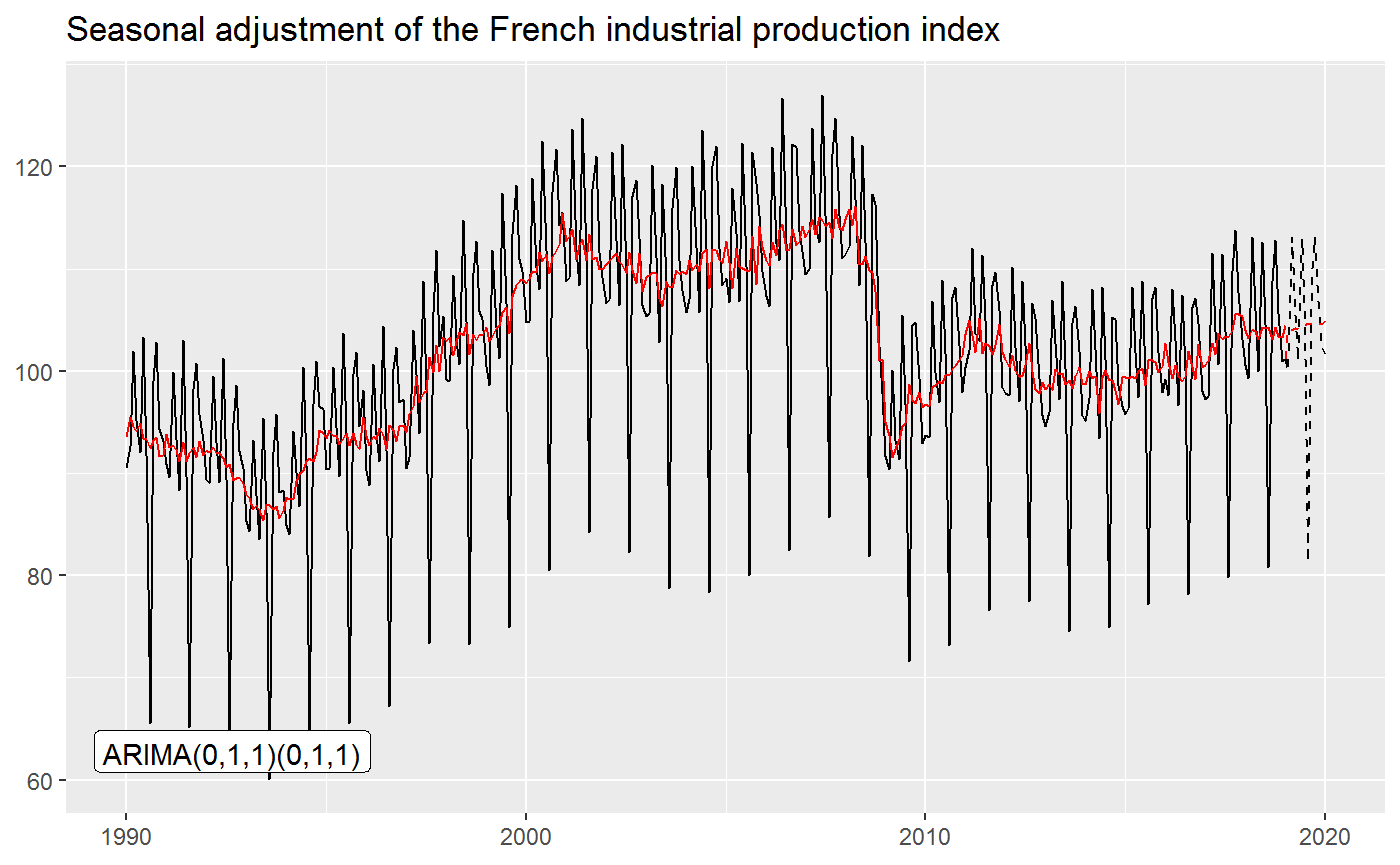
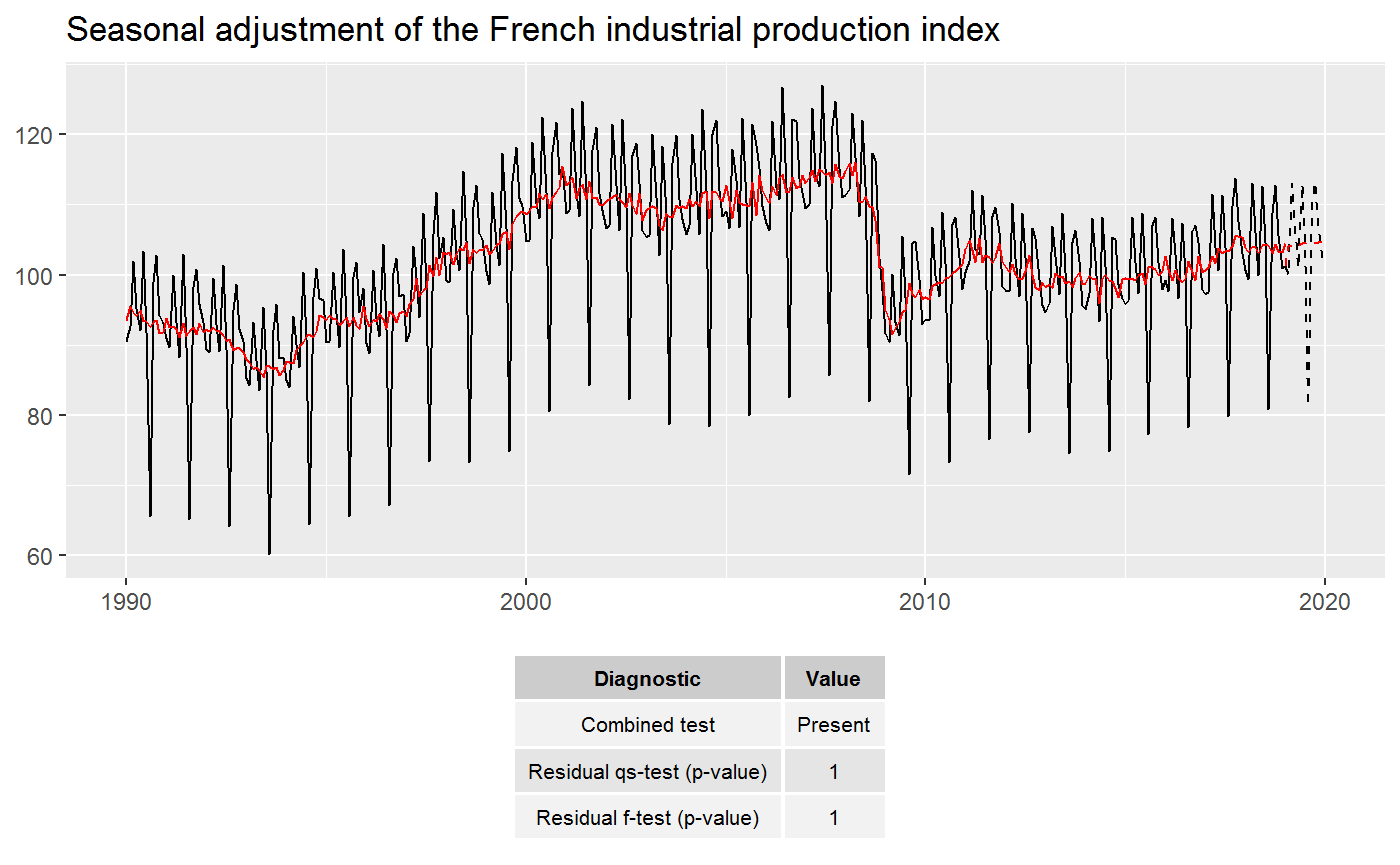
README

diff --git a/docs/index.html b/docs/index.html
@@ -40,7 +40,7 @@
       </button>
       <span class="navbar-brand">
         <a class="navbar-link" href="index.html">ggdemetra</a>
-        <span class="version label label-default" data-toggle="tooltip" data-placement="bottom" title="Released version">0.2.0</span>
+        <span class="version label label-default" data-toggle="tooltip" data-placement="bottom" title="Released version">0.2.1</span>
       </span>
     </div>
 
@@ -139,53 +139,53 @@
 <div id="usage" class="section level2">
 <h2 class="hasAnchor">
 <a href="#usage" class="anchor"></a>Usage</h2>
-<p>By default, the seasonal adjustment is made with X-13-ARIMA with the pre-defined specification “RSA5c” (automatic log detection, automatic ARIMA and outliers detection and trading day and easter adjustment). If no new data or seasonal adjustment specification is specified (method or specification), these parameters is inherited from the previous defined: therefore you only need to specify the specification once. In the following examples, the seasonal adjustment will be perform with X-13-ARIMA with working day adjustment and no gradual easter effect adjustment:</p>
-<div class="sourceCode" id="cb2"><pre class="sourceCode r"><code class="sourceCode r"><a class="sourceLine" id="cb2-1" title="1">spec &lt;-<span class="st"> </span>RJDemetra<span class="op">::</span><span class="kw"><a href="https://www.rdocumentation.org/packages/RJDemetra/topics/x13_spec">x13_spec</a></span>(<span class="st">"RSA3"</span>, <span class="dt">tradingdays.option =</span> <span class="st">"WorkingDays"</span>)</a></code></pre></div>
+<p>By default, the seasonal adjustment is made with X-13-ARIMA with the pre-defined specification “RSA5c” (automatic log detection, automatic ARIMA and outliers detection and trading day and easter adjustment). If no new data or seasonal adjustment specification is specified (method or specification), these parameters is inherited from the previous defined: therefore you only need to specify the specification once. In the following examples, the seasonal adjustment will be perform with X-13-ARIMA with working day adjustment and no gradual easter effect adjustment.</p>
 <p>To add the seasonal adjusted series and the forecasts of the input data and of the seasonal adjusted series:</p>
-<div class="sourceCode" id="cb3"><pre class="sourceCode r"><code class="sourceCode r"><a class="sourceLine" id="cb3-1" title="1"><span class="kw"><a href="https://www.rdocumentation.org/packages/base/topics/library">library</a></span>(ggplot2)</a>
-<a class="sourceLine" id="cb3-2" title="2"><span class="kw"><a href="https://www.rdocumentation.org/packages/base/topics/library">library</a></span>(ggdemetra)</a>
-<a class="sourceLine" id="cb3-3" title="3"></a>
-<a class="sourceLine" id="cb3-4" title="4">p_ipi_fr &lt;-<span class="st"> </span><span class="kw">ggplot</span>(<span class="dt">data =</span> ipi_c_eu_df, <span class="dt">mapping =</span> <span class="kw">aes</span>(<span class="dt">x =</span> date, <span class="dt">y =</span> FR)) <span class="op">+</span></a>
-<a class="sourceLine" id="cb3-5" title="5"><span class="st">    </span><span class="kw">geom_line</span>() <span class="op">+</span></a>
-<a class="sourceLine" id="cb3-6" title="6"><span class="st">    </span><span class="kw">labs</span>(<span class="dt">title =</span> <span class="st">"Seasonal adjustment of the French industrial production index"</span>,</a>
-<a class="sourceLine" id="cb3-7" title="7">         <span class="dt">x =</span> <span class="ot">NULL</span>, <span class="dt">y =</span> <span class="ot">NULL</span>)</a>
-<a class="sourceLine" id="cb3-8" title="8">p_sa &lt;-<span class="st"> </span>p_ipi_fr <span class="op">+</span></a>
-<a class="sourceLine" id="cb3-9" title="9"><span class="st">    </span><span class="kw"><a href="reference/geom_sa.html">geom_sa</a></span>(<span class="dt">component =</span> <span class="st">"y_f"</span>, <span class="dt">linetype =</span> <span class="dv">2</span>,</a>
-<a class="sourceLine" id="cb3-10" title="10">            <span class="dt">spec =</span> spec) <span class="op">+</span><span class="st"> </span></a>
-<a class="sourceLine" id="cb3-11" title="11"><span class="st">    </span><span class="kw"><a href="reference/geom_sa.html">geom_sa</a></span>(<span class="dt">component =</span> <span class="st">"sa"</span>, <span class="dt">color =</span> <span class="st">"red"</span>) <span class="op">+</span></a>
-<a class="sourceLine" id="cb3-12" title="12"><span class="st">    </span><span class="kw"><a href="reference/geom_sa.html">geom_sa</a></span>(<span class="dt">component =</span> <span class="st">"sa_f"</span>, <span class="dt">color =</span> <span class="st">"red"</span>, <span class="dt">linetype =</span> <span class="dv">2</span>)</a>
-<a class="sourceLine" id="cb3-13" title="13">p_sa</a></code></pre></div>
-<p><img src="reference/figures/README-unnamed-chunk-4-1.png" width="700" style="display: block; margin: auto;"></p>
+<div class="sourceCode" id="cb2"><pre class="sourceCode r"><code class="sourceCode r"><a class="sourceLine" id="cb2-1" title="1"><span class="kw"><a href="https://www.rdocumentation.org/packages/base/topics/library">library</a></span>(ggplot2)</a>
+<a class="sourceLine" id="cb2-2" title="2"><span class="kw"><a href="https://www.rdocumentation.org/packages/base/topics/library">library</a></span>(ggdemetra)</a>
+<a class="sourceLine" id="cb2-3" title="3">spec &lt;-<span class="st"> </span>RJDemetra<span class="op">::</span><span class="kw"><a href="https://www.rdocumentation.org/packages/RJDemetra/topics/x13_spec">x13_spec</a></span>(<span class="st">"RSA3"</span>, <span class="dt">tradingdays.option =</span> <span class="st">"WorkingDays"</span>)</a>
+<a class="sourceLine" id="cb2-4" title="4"></a>
+<a class="sourceLine" id="cb2-5" title="5">p_ipi_fr &lt;-<span class="st"> </span><span class="kw">ggplot</span>(<span class="dt">data =</span> ipi_c_eu_df, <span class="dt">mapping =</span> <span class="kw">aes</span>(<span class="dt">x =</span> date, <span class="dt">y =</span> FR)) <span class="op">+</span></a>
+<a class="sourceLine" id="cb2-6" title="6"><span class="st">    </span><span class="kw">geom_line</span>() <span class="op">+</span></a>
+<a class="sourceLine" id="cb2-7" title="7"><span class="st">    </span><span class="kw">labs</span>(<span class="dt">title =</span> <span class="st">"Seasonal adjustment of the French industrial production index"</span>,</a>
+<a class="sourceLine" id="cb2-8" title="8">         <span class="dt">x =</span> <span class="ot">NULL</span>, <span class="dt">y =</span> <span class="ot">NULL</span>)</a>
+<a class="sourceLine" id="cb2-9" title="9">p_sa &lt;-<span class="st"> </span>p_ipi_fr <span class="op">+</span></a>
+<a class="sourceLine" id="cb2-10" title="10"><span class="st">    </span><span class="kw"><a href="reference/geom_sa.html">geom_sa</a></span>(<span class="dt">component =</span> <span class="st">"y_f"</span>, <span class="dt">linetype =</span> <span class="dv">2</span>,</a>
+<a class="sourceLine" id="cb2-11" title="11">            <span class="dt">spec =</span> spec) <span class="op">+</span><span class="st"> </span></a>
+<a class="sourceLine" id="cb2-12" title="12"><span class="st">    </span><span class="kw"><a href="reference/geom_sa.html">geom_sa</a></span>(<span class="dt">component =</span> <span class="st">"sa"</span>, <span class="dt">color =</span> <span class="st">"red"</span>) <span class="op">+</span></a>
+<a class="sourceLine" id="cb2-13" title="13"><span class="st">    </span><span class="kw"><a href="reference/geom_sa.html">geom_sa</a></span>(<span class="dt">component =</span> <span class="st">"sa_f"</span>, <span class="dt">color =</span> <span class="st">"red"</span>, <span class="dt">linetype =</span> <span class="dv">2</span>)</a>
+<a class="sourceLine" id="cb2-14" title="14">p_sa</a></code></pre></div>
+<p><img src="reference/figures/README-unnamed-chunk-3-1.png" width="700" style="display: block; margin: auto;"></p>
 <p>To add the outliers at the bottom of the plot with an arrow to the data point and the estimated coefficients:</p>
-<div class="sourceCode" id="cb4"><pre class="sourceCode r"><code class="sourceCode r"><a class="sourceLine" id="cb4-1" title="1">p_sa <span class="op">+</span><span class="st"> </span></a>
-<a class="sourceLine" id="cb4-2" title="2"><span class="st">    </span><span class="kw"><a href="reference/geom_outlier.html">geom_outlier</a></span>(<span class="dt">geom =</span> <span class="st">"label_repel"</span>,</a>
-<a class="sourceLine" id="cb4-3" title="3">                 <span class="dt">coefficients =</span> <span class="ot">TRUE</span>,</a>
-<a class="sourceLine" id="cb4-4" title="4">                 <span class="dt">vjust =</span> <span class="dv">4</span>,</a>
-<a class="sourceLine" id="cb4-5" title="5">                 <span class="dt">ylim =</span> <span class="kw"><a href="https://www.rdocumentation.org/packages/base/topics/c">c</a></span>(<span class="ot">NA</span>, <span class="dv">65</span>), <span class="dt">force =</span> <span class="dv">10</span>,</a>
-<a class="sourceLine" id="cb4-6" title="6">                 <span class="dt">arrow =</span> <span class="kw">arrow</span>(<span class="dt">length =</span> <span class="kw">unit</span>(<span class="fl">0.03</span>, <span class="st">"npc"</span>),</a>
-<a class="sourceLine" id="cb4-7" title="7">                               <span class="dt">type =</span> <span class="st">"closed"</span>, <span class="dt">ends =</span> <span class="st">"last"</span>))</a></code></pre></div>
-<p><img src="reference/figures/README-unnamed-chunk-5-1.png" width="700" style="display: block; margin: auto;"></p>
+<div class="sourceCode" id="cb3"><pre class="sourceCode r"><code class="sourceCode r"><a class="sourceLine" id="cb3-1" title="1">p_sa <span class="op">+</span><span class="st"> </span></a>
+<a class="sourceLine" id="cb3-2" title="2"><span class="st">    </span><span class="kw"><a href="reference/geom_outlier.html">geom_outlier</a></span>(<span class="dt">geom =</span> <span class="st">"label_repel"</span>,</a>
+<a class="sourceLine" id="cb3-3" title="3">                 <span class="dt">coefficients =</span> <span class="ot">TRUE</span>,</a>
+<a class="sourceLine" id="cb3-4" title="4">                 <span class="dt">vjust =</span> <span class="dv">4</span>,</a>
+<a class="sourceLine" id="cb3-5" title="5">                 <span class="dt">ylim =</span> <span class="kw"><a href="https://www.rdocumentation.org/packages/base/topics/c">c</a></span>(<span class="ot">NA</span>, <span class="dv">65</span>), <span class="dt">force =</span> <span class="dv">10</span>,</a>
+<a class="sourceLine" id="cb3-6" title="6">                 <span class="dt">arrow =</span> <span class="kw">arrow</span>(<span class="dt">length =</span> <span class="kw">unit</span>(<span class="fl">0.03</span>, <span class="st">"npc"</span>),</a>
+<a class="sourceLine" id="cb3-7" title="7">                               <span class="dt">type =</span> <span class="st">"closed"</span>, <span class="dt">ends =</span> <span class="st">"last"</span>))</a></code></pre></div>
+<p><img src="reference/figures/README-unnamed-chunk-4-1.png" width="700" style="display: block; margin: auto;"></p>
 <p>To add the ARIMA model:</p>
-<div class="sourceCode" id="cb5"><pre class="sourceCode r"><code class="sourceCode r"><a class="sourceLine" id="cb5-1" title="1">p_sa <span class="op">+</span><span class="st"> </span></a>
-<a class="sourceLine" id="cb5-2" title="2"><span class="st">    </span><span class="kw"><a href="reference/geom_arima.html">geom_arima</a></span>(<span class="dt">geom =</span> <span class="st">"label"</span>,</a>
-<a class="sourceLine" id="cb5-3" title="3">               <span class="dt">x_arima =</span> <span class="op">-</span><span class="ot">Inf</span>, <span class="dt">y_arima =</span> <span class="op">-</span><span class="ot">Inf</span>, </a>
-<a class="sourceLine" id="cb5-4" title="4">               <span class="dt">vjust =</span> <span class="dv">-1</span>, <span class="dt">hjust =</span> <span class="fl">-0.1</span>)</a>
-<a class="sourceLine" id="cb5-5" title="5"><span class="co">#&gt; Frenquency used: 12</span></a></code></pre></div>
-<p><img src="reference/figures/README-unnamed-chunk-6-1.png" width="700" style="display: block; margin: auto;"></p>
+<div class="sourceCode" id="cb4"><pre class="sourceCode r"><code class="sourceCode r"><a class="sourceLine" id="cb4-1" title="1">p_sa <span class="op">+</span><span class="st"> </span></a>
+<a class="sourceLine" id="cb4-2" title="2"><span class="st">    </span><span class="kw"><a href="reference/geom_arima.html">geom_arima</a></span>(<span class="dt">geom =</span> <span class="st">"label"</span>,</a>
+<a class="sourceLine" id="cb4-3" title="3">               <span class="dt">x_arima =</span> <span class="op">-</span><span class="ot">Inf</span>, <span class="dt">y_arima =</span> <span class="op">-</span><span class="ot">Inf</span>, </a>
+<a class="sourceLine" id="cb4-4" title="4">               <span class="dt">vjust =</span> <span class="dv">-1</span>, <span class="dt">hjust =</span> <span class="fl">-0.1</span>)</a>
+<a class="sourceLine" id="cb4-5" title="5"><span class="co">#&gt; Frenquency used: 12</span></a></code></pre></div>
+<p><img src="reference/figures/README-unnamed-chunk-5-1.png" width="700" style="display: block; margin: auto;"></p>
 <p>To add a table of diagnostics below the plot:</p>
-<div class="sourceCode" id="cb6"><pre class="sourceCode r"><code class="sourceCode r"><a class="sourceLine" id="cb6-1" title="1">diagnostics &lt;-<span class="st"> </span><span class="kw"><a href="https://www.rdocumentation.org/packages/base/topics/c">c</a></span>(<span class="st">`</span><span class="dt">Combined test</span><span class="st">`</span> =<span class="st"> "diagnostics.combined.all.summary"</span>,</a>
-<a class="sourceLine" id="cb6-2" title="2">                 <span class="st">`</span><span class="dt">Residual qs-test (p-value)</span><span class="st">`</span> =<span class="st"> "diagnostics.qs"</span>,</a>
-<a class="sourceLine" id="cb6-3" title="3">                 <span class="st">`</span><span class="dt">Residual f-test (p-value)</span><span class="st">`</span> =<span class="st"> "diagnostics.ftest"</span>)</a>
-<a class="sourceLine" id="cb6-4" title="4">p_diag &lt;-<span class="st"> </span><span class="kw">ggplot</span>(<span class="dt">data =</span> ipi_c_eu_df, <span class="dt">mapping =</span> <span class="kw">aes</span>(<span class="dt">x =</span> date, <span class="dt">y =</span> FR)) <span class="op">+</span></a>
-<a class="sourceLine" id="cb6-5" title="5"><span class="st">    </span><span class="kw"><a href="reference/geom_diagnostics.html">geom_diagnostics</a></span>(<span class="dt">diagnostics =</span> diagnostics,</a>
-<a class="sourceLine" id="cb6-6" title="6">                     <span class="dt">table_theme =</span> gridExtra<span class="op">::</span><span class="kw"><a href="https://www.rdocumentation.org/packages/gridExtra/topics/tableGrob">ttheme_default</a></span>(<span class="dt">base_size =</span> <span class="dv">8</span>),</a>
-<a class="sourceLine" id="cb6-7" title="7">                     <span class="dt">message =</span> <span class="ot">FALSE</span>) <span class="op">+</span><span class="st"> </span></a>
-<a class="sourceLine" id="cb6-8" title="8"><span class="st">    </span><span class="kw">theme_void</span>()</a>
-<a class="sourceLine" id="cb6-9" title="9">    </a>
-<a class="sourceLine" id="cb6-10" title="10">gridExtra<span class="op">::</span><span class="kw"><a href="https://www.rdocumentation.org/packages/gridExtra/topics/arrangeGrob">grid.arrange</a></span>(p_sa, p_diag,</a>
-<a class="sourceLine" id="cb6-11" title="11">             <span class="dt">nrow =</span> <span class="dv">2</span>, <span class="dt">heights  =</span> <span class="kw"><a href="https://www.rdocumentation.org/packages/base/topics/c">c</a></span>(<span class="dv">4</span>, <span class="fl">1.5</span>))</a>
-<a class="sourceLine" id="cb6-12" title="12"><span class="co">#&gt; Frenquency used: 12</span></a></code></pre></div>
-<p><img src="reference/figures/README-unnamed-chunk-7-1.png" width="700" style="display: block; margin: auto;"></p>
+<div class="sourceCode" id="cb5"><pre class="sourceCode r"><code class="sourceCode r"><a class="sourceLine" id="cb5-1" title="1">diagnostics &lt;-<span class="st"> </span><span class="kw"><a href="https://www.rdocumentation.org/packages/base/topics/c">c</a></span>(<span class="st">`</span><span class="dt">Combined test</span><span class="st">`</span> =<span class="st"> "diagnostics.combined.all.summary"</span>,</a>
+<a class="sourceLine" id="cb5-2" title="2">                 <span class="st">`</span><span class="dt">Residual qs-test (p-value)</span><span class="st">`</span> =<span class="st"> "diagnostics.qs"</span>,</a>
+<a class="sourceLine" id="cb5-3" title="3">                 <span class="st">`</span><span class="dt">Residual f-test (p-value)</span><span class="st">`</span> =<span class="st"> "diagnostics.ftest"</span>)</a>
+<a class="sourceLine" id="cb5-4" title="4">p_diag &lt;-<span class="st"> </span><span class="kw">ggplot</span>(<span class="dt">data =</span> ipi_c_eu_df, <span class="dt">mapping =</span> <span class="kw">aes</span>(<span class="dt">x =</span> date, <span class="dt">y =</span> FR)) <span class="op">+</span></a>
+<a class="sourceLine" id="cb5-5" title="5"><span class="st">    </span><span class="kw"><a href="reference/geom_diagnostics.html">geom_diagnostics</a></span>(<span class="dt">diagnostics =</span> diagnostics,</a>
+<a class="sourceLine" id="cb5-6" title="6">                     <span class="dt">table_theme =</span> gridExtra<span class="op">::</span><span class="kw"><a href="https://www.rdocumentation.org/packages/gridExtra/topics/tableGrob">ttheme_default</a></span>(<span class="dt">base_size =</span> <span class="dv">8</span>),</a>
+<a class="sourceLine" id="cb5-7" title="7">                     <span class="dt">message =</span> <span class="ot">FALSE</span>) <span class="op">+</span><span class="st"> </span></a>
+<a class="sourceLine" id="cb5-8" title="8"><span class="st">    </span><span class="kw">theme_void</span>()</a>
+<a class="sourceLine" id="cb5-9" title="9">    </a>
+<a class="sourceLine" id="cb5-10" title="10">gridExtra<span class="op">::</span><span class="kw"><a href="https://www.rdocumentation.org/packages/gridExtra/topics/arrangeGrob">grid.arrange</a></span>(p_sa, p_diag,</a>
+<a class="sourceLine" id="cb5-11" title="11">             <span class="dt">nrow =</span> <span class="dv">2</span>, <span class="dt">heights  =</span> <span class="kw"><a href="https://www.rdocumentation.org/packages/base/topics/c">c</a></span>(<span class="dv">4</span>, <span class="fl">1.5</span>))</a>
+<a class="sourceLine" id="cb5-12" title="12"><span class="co">#&gt; Frenquency used: 12</span></a></code></pre></div>
+<p><img src="reference/figures/README-unnamed-chunk-6-1.png" width="700" style="display: block; margin: auto;"></p>
 </div>
 </div>
   </div>

diff --git a/docs/authors.html b/docs/authors.html
@@ -70,7 +70,7 @@
       </button>
       <span class="navbar-brand">
         <a class="navbar-link" href="index.html">ggdemetra</a>
-        <span class="version label label-default" data-toggle="tooltip" data-placement="bottom" title="Released version">0.2.0</span>
+        <span class="version label label-default" data-toggle="tooltip" data-placement="bottom" title="Released version">0.2.1</span>
       </span>
     </div>
 

diff --git a/README.md b/README.md
@@ -64,11 +64,7 @@ specification), these parameters is inherited from the previous defined:
 therefore you only need to specify the specification once. In the
 following examples, the seasonal adjustment will be perform with
 X-13-ARIMA with working day adjustment and no gradual easter effect
-adjustment:
-
-``` r
-spec <- RJDemetra::x13_spec("RSA3", tradingdays.option = "WorkingDays")
-```
+adjustment.
 
 To add the seasonal adjusted series and the forecasts of the input data
 and of the seasonal adjusted series:
@@ -76,6 +72,7 @@ and of the seasonal adjusted series:
 ``` r
 library(ggplot2)
 library(ggdemetra)
+spec <- RJDemetra::x13_spec("RSA3", tradingdays.option = "WorkingDays")
 
 p_ipi_fr <- ggplot(data = ipi_c_eu_df, mapping = aes(x = date, y = FR)) +
     geom_line() +
@@ -89,7 +86,7 @@ p_sa <- p_ipi_fr +
 p_sa
 ```
 
-<img src="man/figures/README-unnamed-chunk-4-1.png" style="display: block; margin: auto;" />
+<img src="man/figures/README-unnamed-chunk-3-1.png" style="display: block; margin: auto;" />
 
 To add the outliers at the bottom of the plot with an arrow to the data
 point and the estimated coefficients:
@@ -104,7 +101,7 @@ p_sa +
                                type = "closed", ends = "last"))
 ```
 
-<img src="man/figures/README-unnamed-chunk-5-1.png" style="display: block; margin: auto;" />
+<img src="man/figures/README-unnamed-chunk-4-1.png" style="display: block; margin: auto;" />
 
 To add the ARIMA model:
 
@@ -116,7 +113,7 @@ p_sa +
 #> Frenquency used: 12
 ```
 
-<img src="man/figures/README-unnamed-chunk-6-1.png" style="display: block; margin: auto;" />
+<img src="man/figures/README-unnamed-chunk-5-1.png" style="display: block; margin: auto;" />
 
 To add a table of diagnostics below the plot:
 
@@ -135,4 +132,4 @@ gridExtra::grid.arrange(p_sa, p_diag,
 #> Frenquency used: 12
 ```
 
-<img src="man/figures/README-unnamed-chunk-7-1.png" style="display: block; margin: auto;" />
+<img src="man/figures/README-unnamed-chunk-6-1.png" style="display: block; margin: auto;" />
